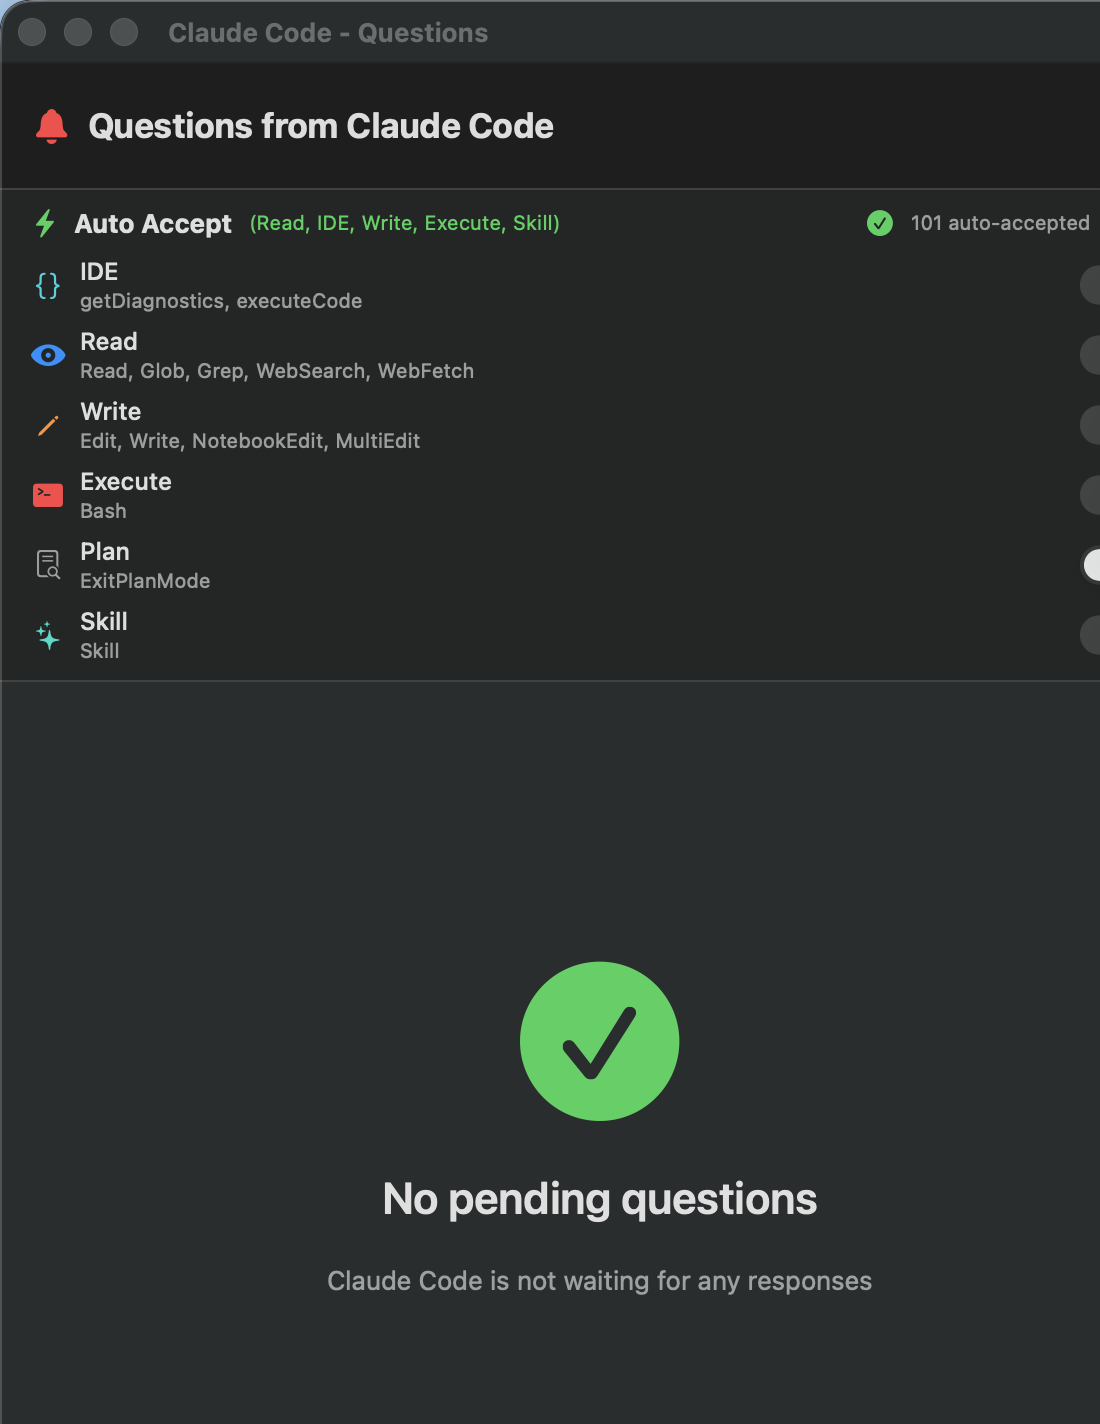
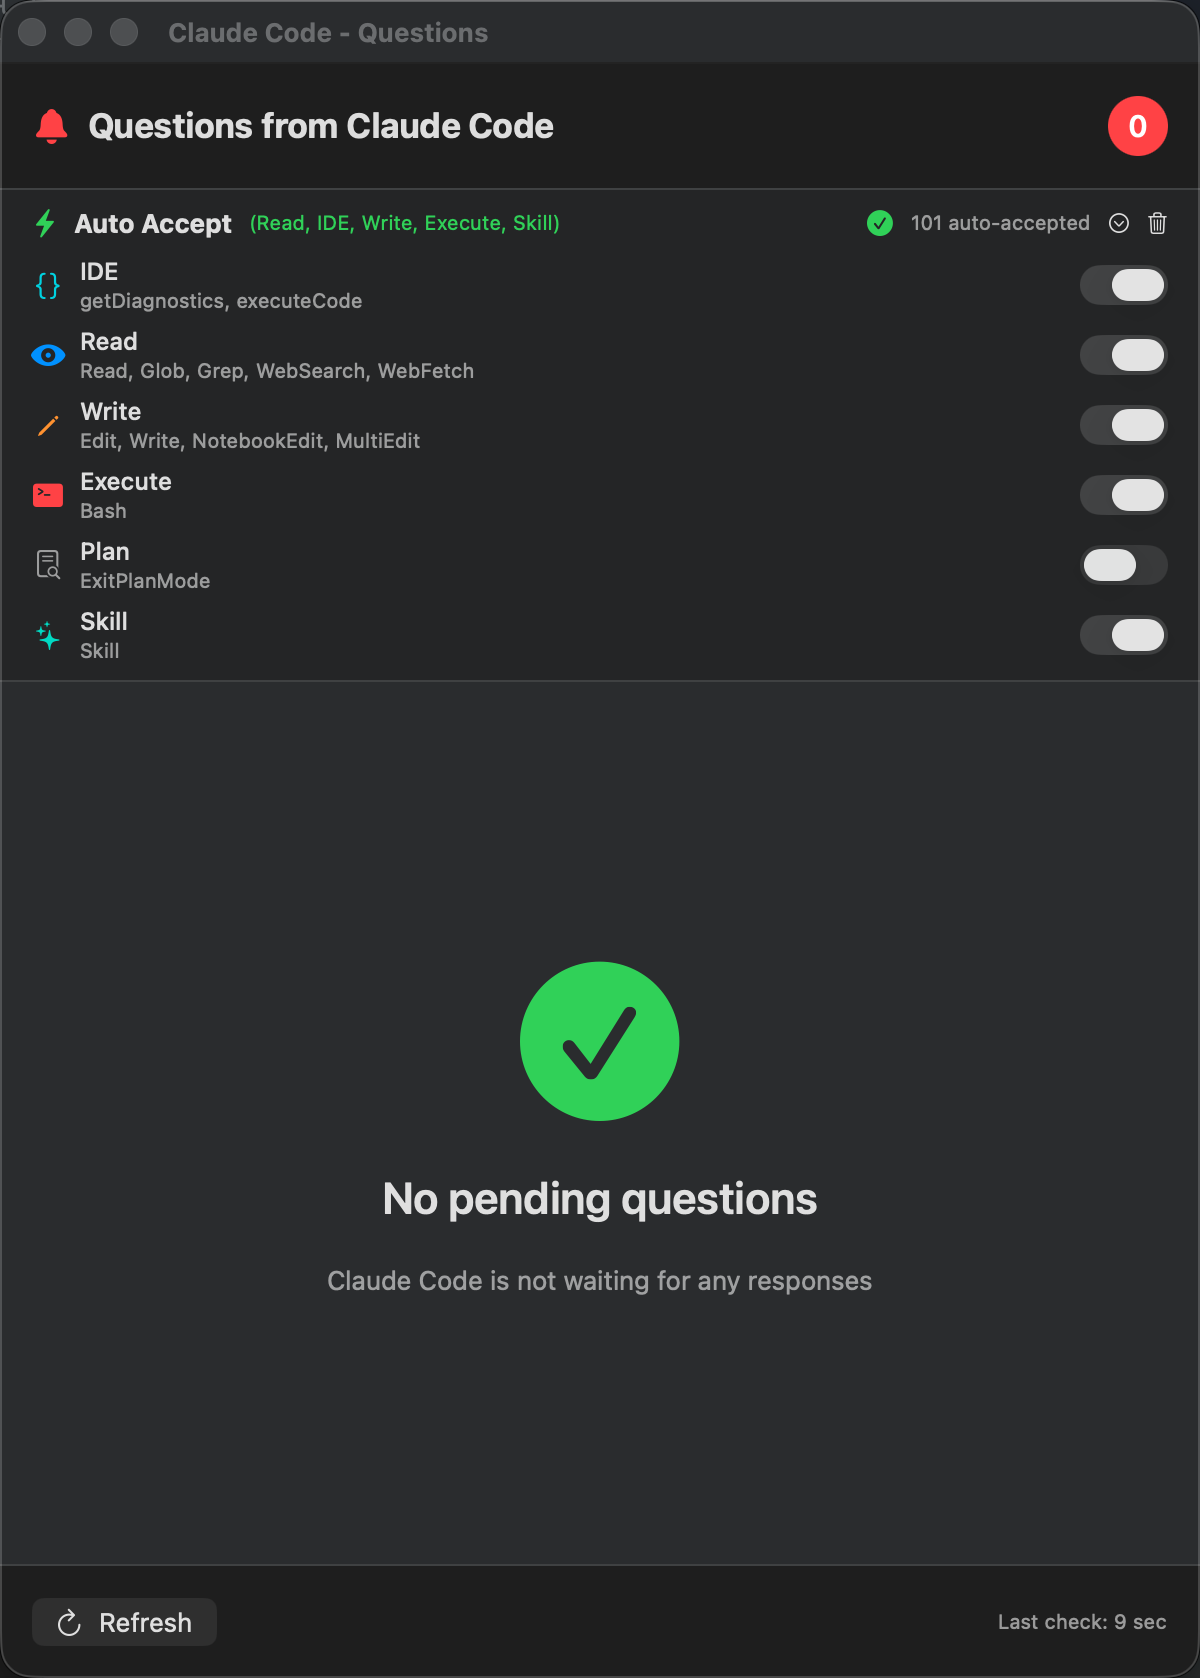
fix(docs): correct auto-accept — tiers are independent, not hierarchical
- Each of the 6 tiers (IDE/Read/Write/Execute/Plan/Skill) works independently
- Remove incorrect "enabling higher tier enables lower ones" diagram
- Clarify that Claude questions (not permissions) always require manual reply
- Replace auto-accept screenshot with clean full-width capture (toggles visible)

diff --git a/docs/features/auto-accept.html b/docs/features/auto-accept.html
@@ -387,46 +387,44 @@
 
         </div>
 
-        <h2 id="how-levels-work">How they work together</h2>
+        <h2 id="how-levels-work">Each level is independent</h2>
 
-        <p>The levels build on each other. When you turn on a higher level, all the levels below it switch on too — because it wouldn't make sense to let Claude run commands but not read files. Turning off a lower level switches off everything above it as well.</p>
+        <p>The 6 levels work completely independently — turning one on or off has no effect on the others. You can have any combination active at the same time. For example, you can enable Read and Execute but leave Write off. Or enable only Plan. It's entirely up to you.</p>
 
         <div class="hierarchy-diagram">
             <div class="hierarchy-row">
-                <span class="tier-badge tier-skill">Skill (6)</span>
-                <span class="hierarchy-connector">&#8594;</span>
-                <span class="hierarchy-desc">also turns on IDE, Read, Write, Execute, and Plan</span>
+                <span class="tier-badge tier-ide">IDE</span>
+                <span class="hierarchy-connector">&#10003;</span>
+                <span class="hierarchy-desc">independent — doesn't affect other levels</span>
             </div>
             <div class="hierarchy-row">
-                <span class="tier-badge tier-plan">Plan (5)</span>
-                <span class="hierarchy-connector">&#8594;</span>
-                <span class="hierarchy-desc">also turns on IDE, Read, Write, and Execute</span>
+                <span class="tier-badge tier-read">Read</span>
+                <span class="hierarchy-connector">&#10003;</span>
+                <span class="hierarchy-desc">independent — doesn't affect other levels</span>
             </div>
             <div class="hierarchy-row">
-                <span class="tier-badge tier-execute">Execute (4)</span>
-                <span class="hierarchy-connector">&#8594;</span>
-                <span class="hierarchy-desc">also turns on IDE, Read, and Write</span>
+                <span class="tier-badge tier-write">Write</span>
+                <span class="hierarchy-connector">&#10003;</span>
+                <span class="hierarchy-desc">independent — doesn't affect other levels</span>
             </div>
             <div class="hierarchy-row">
-                <span class="tier-badge tier-write">Write (3)</span>
-                <span class="hierarchy-connector">&#8594;</span>
-                <span class="hierarchy-desc">also turns on IDE and Read</span>
+                <span class="tier-badge tier-execute">Execute</span>
+                <span class="hierarchy-connector">&#10003;</span>
+                <span class="hierarchy-desc">independent — doesn't affect other levels</span>
             </div>
             <div class="hierarchy-row">
-                <span class="tier-badge tier-read">Read (2)</span>
-                <span class="hierarchy-connector">&#8594;</span>
-                <span class="hierarchy-desc">also turns on IDE</span>
+                <span class="tier-badge tier-plan">Plan</span>
+                <span class="hierarchy-connector">&#10003;</span>
+                <span class="hierarchy-desc">independent — doesn't affect other levels</span>
             </div>
             <div class="hierarchy-row">
-                <span class="tier-badge tier-ide">IDE (1)</span>
-                <span class="hierarchy-connector">&#8594;</span>
-                <span class="hierarchy-desc">standalone, no dependencies</span>
+                <span class="tier-badge tier-skill">Skill</span>
+                <span class="hierarchy-connector">&#10003;</span>
+                <span class="hierarchy-desc">independent — doesn't affect other levels</span>
             </div>
         </div>
 
-        <p>In practice: just find your highest comfortable level and switch it on. Everything below it turns on automatically. You can still go back and switch individual levels off if you want finer control.</p>
-
-        <p>Want to turn everything off? Switch off the IDE toggle and all levels clear at once.</p>
+        <p>Toggle each one individually. Changes take effect immediately — no restart needed, even mid-session.</p>
 
         <h2 id="never-auto-accepted">What CC Gate never auto-accepts</h2>
 
@@ -435,14 +433,15 @@
                 <div class="special-case-icon">&#128172;</div>
                 <div>
                     <h4>When Claude asks you a question</h4>
-                    <p>Auto-Accept only handles permission requests — "can I do this?" Claude asking you a real question, like "which approach do you prefer?" or "what's your name?", is completely different. CC Gate passes those through to you directly. You'll see them appear in your terminal as normal, and you answer them yourself.</p>
+                    <p>There's an important difference between Claude <em>asking for permission</em> ("can I edit this file?") and Claude <em>asking you a question</em> ("what should the button label say?" or "which option do you prefer?").</p>
+                    <p>Auto-Accept only handles <strong>permission requests</strong>. When Claude asks you an actual question to clarify what you want, CC Gate never intercepts it — it goes straight to your terminal. You type your answer there, just as if CC Gate weren't installed. This always requires your manual response.</p>
                 </div>
             </div>
             <div class="special-case">
                 <div class="special-case-icon">&#10067;</div>
                 <div>
                     <h4>Tools CC Gate doesn't recognise</h4>
-                    <p>If Claude tries to use a tool that CC Gate has never seen before, it will always ask you manually — no matter which levels you have turned on. Unknown tools are never auto-approved. You'll see the request appear in the Questions window just like any other permission prompt, and you can decide yourself.</p>
+                    <p>If Claude tries to use a tool that CC Gate doesn't know about, it always asks you manually — no matter which levels are on. Unknown tools are never auto-approved. You'll see the request appear in the Questions window and you decide yourself.</p>
                 </div>
             </div>
         </div>
